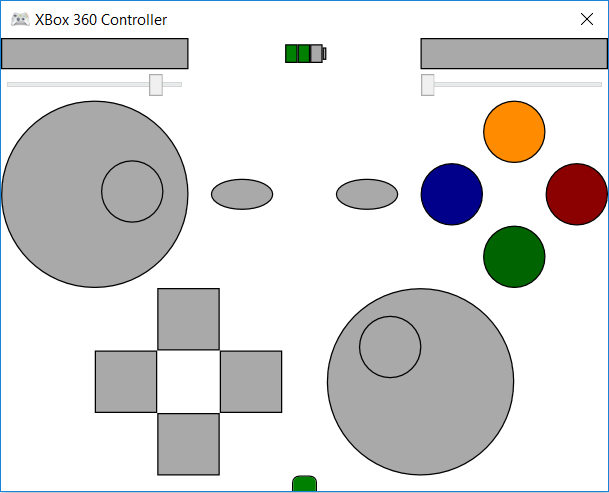
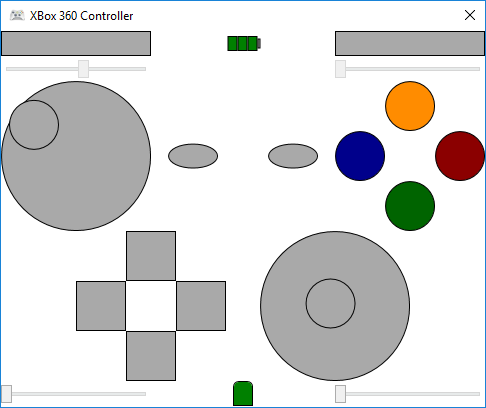
Added basic rumble support.

diff --git a/SampleApplication/MainWindow.xaml b/SampleApplication/MainWindow.xaml
@@ -5,7 +5,7 @@
         xmlns:mc="http://schemas.openxmlformats.org/markup-compatibility/2006"
         xmlns:local="clr-namespace:XBoxControllerDemo"
         mc:Ignorable="d"
-        Title="XBox 360 Controller" Height="400" Width="500" ResizeMode="NoResize" Icon="Xbox360Pad.ico">
+        Title="XBox 360 Controller" Height="415" Width="500" ResizeMode="NoResize" Icon="Xbox360Pad.ico">
     <StackPanel>
         <Grid>
             <!--Left, Right Shoulders-->
@@ -21,8 +21,8 @@
         </Grid>
         <Grid Height="25">
             <!--Left, Right Triggers-->
-            <Slider HorizontalAlignment="Left" VerticalAlignment="Center" Width="150" Name="LeftTrigger" Minimum="0.0" Maximum="1.0" ToolTip="Left Trigger"/>
-            <Slider HorizontalAlignment="Right" VerticalAlignment="Center" Width="150" Name="RightTrigger" Minimum="0.0" Maximum="1.0" ToolTip="Right Trigger"/>
+            <Slider HorizontalAlignment="Left" VerticalAlignment="Center" Width="150" Name="LeftTrigger" Minimum="0.0" Maximum="1.0" ToolTip="Left Trigger" IsEnabled="False"/>
+            <Slider HorizontalAlignment="Right" VerticalAlignment="Center" Width="150" Name="RightTrigger" Minimum="0.0" Maximum="1.0" ToolTip="Right Trigger" IsEnabled="False"/>
         </Grid>
         <Grid>
             <!--Left Thumb Stick-->
@@ -57,9 +57,11 @@
                 <Ellipse Fill="DarkGray" HorizontalAlignment="Center" VerticalAlignment="Center" Width="50" Height="50" Stroke="Black" Name="RightThumbPositionsCircle" Margin="0,0,0,0"/>
             </Grid>
         </Grid>
-        <Grid>
+        <Grid Height="25">
             <!--Connection Status-->
-            <Border BorderBrush="Black" Background="DarkRed" BorderThickness="1" CornerRadius="5,5,0,0" Width="20" Height="20" Name="ConnectedBorder" ToolTip="Connection Status"/>
+            <Border BorderBrush="Black" Background="DarkRed" BorderThickness="1" CornerRadius="5,5,0,0" Width="20" Height="25" Name="ConnectedBorder" ToolTip="Connection Status"/>
+            <Slider HorizontalAlignment="Left" VerticalAlignment="Center" Width="150" Name="LeftRumble" Minimum="0.0" Maximum="1.0" ToolTip="Left Rumble" ValueChanged="LeftRumble_ValueChanged"/>
+            <Slider HorizontalAlignment="Right" VerticalAlignment="Center" Width="150" Name="RightRumble" Minimum="0.0" Maximum="1.0" ToolTip="Right Rumble" ValueChanged="RightRumble_ValueChanged"/>
         </Grid>
     </StackPanel>
 </Window>

diff --git a/Com.Okmer.GameController/XBoxController.cs b/Com.Okmer.GameController/XBoxController.cs
@@ -6,16 +6,20 @@ namespace Com.Okmer.GameController
 {
     public class XBoxController
     {
+        private Task fastPollTask;
+        private Task slowPollTask;
+
         public const float MinTrigger = 0.0f;
         public const float MaxTrigger = 1.0f;
 
         public const float MinThumb = -1.0f;
         public const float MaxThumb = 1.0f;
 
-        private Controller controller;
+        public const float MinRumble = 0.0f;
+        public const float MaxRumble = 1.0f;
 
-        private Task fastPollTask;
-        private Task slowPollTask;
+        private Controller controller;
+        private Vibration vibration = new Vibration();
 
         //Buttons
         public XBoxButton A { get; } = new XBoxButton();
@@ -47,9 +51,30 @@ namespace Com.Okmer.GameController
 
         public XBoxConnection Connection { get; } = new XBoxConnection();
 
+        public XBoxRumble LeftRumble { get; } = new XBoxRumble();
+        public XBoxRumble RightRumble { get; } = new XBoxRumble();
+
         public XBoxController(int fastPollIntervalMilliseconds = 10, int slowPollIntervalMilliseconds = 1000)
         {
             controller = new Controller(UserIndex.One);
+
+            LeftRumble.SpeedChanged += (s, e) =>
+            {
+                if (!controller.IsConnected)
+                    return;
+
+                vibration.LeftMotorSpeed = (ushort)e.Speed.RemapF(MinRumble, MaxRumble, ushort.MinValue, ushort.MaxValue);
+                controller.SetVibration(vibration);
+            };
+
+            RightRumble.SpeedChanged += (s, e) =>
+            {
+                if (!controller.IsConnected)
+                    return;
+
+                vibration.RightMotorSpeed = (ushort)e.Speed.RemapF(MinRumble, MaxRumble, ushort.MinValue, ushort.MaxValue);
+                controller.SetVibration(vibration);
+            };
 
             fastPollTask = Task.Run(async () =>
             {

diff --git a/Com.Okmer.GameController/Components/XBoxRumble.cs b/Com.Okmer.GameController/Components/XBoxRumble.cs
@@ -1,0 +1,37 @@
+using System;
+using System.Collections.Generic;
+using System.Linq;
+using System.Text;
+using System.Threading.Tasks;
+
+namespace Com.Okmer.GameController
+{
+    public class XBoxRumble
+    {
+        public event EventHandler<SpeedChangeArgs> SpeedChanged;
+
+        private float speed;
+        public float Speed
+        {
+            get { return speed; }
+            set
+            {
+                if (speed != value)
+                {
+                    speed = value;
+                    OnStateChanged(new SpeedChangeArgs(speed));
+                }
+            }
+        }
+
+        public XBoxRumble(float initialSpeed = 0.0f)
+        {
+            speed = initialSpeed;
+        }
+
+        protected virtual void OnStateChanged(SpeedChangeArgs e)
+        {
+            SpeedChanged?.Invoke(this, e);
+        }
+    }
+}

diff --git a/SampleApplication/MainWindow.xaml.cs b/SampleApplication/MainWindow.xaml.cs
@@ -72,7 +72,18 @@ namespace XBoxControllerDemo
             //Thumb Positions Left, Right
             controller.LeftThumb.PositionsChanged += (s, e) => guiDisp.Invoke(() => { LeftThumbPositionsCircle.Margin = new Thickness(100.0 * e.X, -100.0 * e.Y, 0.0, 0.0); });
             controller.RightThumb.PositionsChanged += (s, e) => guiDisp.Invoke(() => { RightThumbPositionsCircle.Margin = new Thickness(100.0 * e.X, -100.0 * e.Y, 0.0, 0.0); });
+
+
         }
 
+        private void LeftRumble_ValueChanged(object sender, RoutedPropertyChangedEventArgs<double> e)
+        {
+            controller.LeftRumble.Speed = (float)e.NewValue;
+        }
+
+        private void RightRumble_ValueChanged(object sender, RoutedPropertyChangedEventArgs<double> e)
+        {
+            controller.RightRumble.Speed = (float)e.NewValue;
+        }
     }
 }

diff --git a/Com.Okmer.GameController/Components/SpeedChangeArgs.cs b/Com.Okmer.GameController/Components/SpeedChangeArgs.cs
@@ -1,0 +1,18 @@
+using System;
+using System.Collections.Generic;
+using System.Linq;
+using System.Text;
+using System.Threading.Tasks;
+
+namespace Com.Okmer.GameController
+{
+    public class SpeedChangeArgs : EventArgs
+    {
+        public float Speed { get; }
+
+        public SpeedChangeArgs(float speed)
+        {
+            Speed = speed;
+        }
+    }
+}
